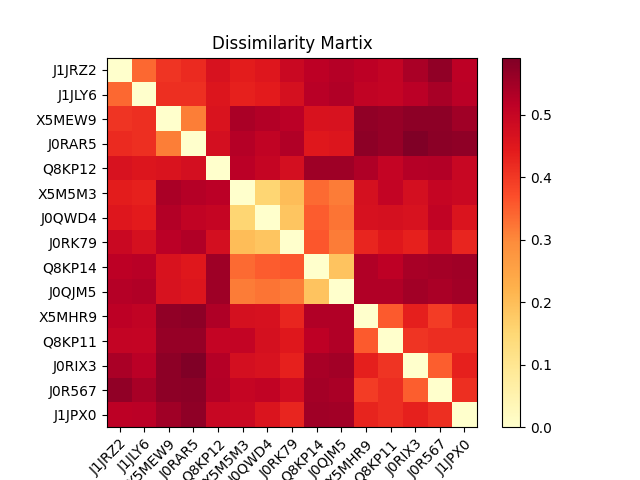
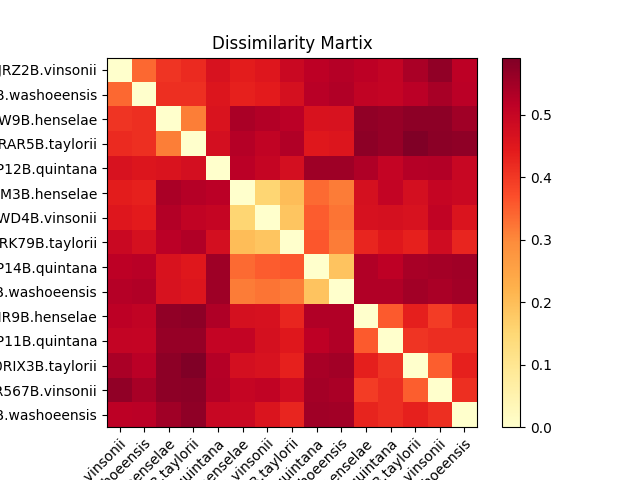
Added species names to sequence names used for a tree and heatmap display

diff --git a/Project_Code/project_step4.py b/Project_Code/project_step4.py
@@ -18,7 +18,7 @@ path_to_alignment_score_plot = '../Output_Files/Alignement_score_plot_by_positio
 path_to_unordered_heatmap = '../Output_Files/Heatmap_for_unordered_sequences.png'
 path_to_tree = '../Output_Files/Tree.png'
 path_to_ordered_heatmap = '../Output_Files/Heatmap_for_ordered_sequences.png'
-
+path_to_embl_summary = "../Output_Files/Bartonella_embl_summary_usingLISTOFLISTS.txt"
 # Use once to save the alignment result, otherwise you're gonna wait for eternity...
 #MSA.write_msa_as_fasta(path_to_prots,path_to_score_matrix, path_to_msa_result)
 
@@ -26,12 +26,20 @@ MSA_dict = EMBL.read_fasta(path_to_msa_result)
 Score_dict = MSA.read_score_matrix(path_to_score_matrix)
 
 overall_score, scores_by_pos = MSA.dissimilarity_score(MSA_dict,Score_dict)
-print(f'BLOSUM62 Alignment Score:{overall_score}')   # I DONT HAVE THE SAME SCORE as the one obtained by msa.py
+print(f'BLOSUM62 Alignment Score:{overall_score}')   
 
 
 MSA.plot_alignment_score(scores_by_pos, 'BLOSUM62 Alignment Score', path_to_alignment_score_plot)
 
 DistMat, seq_names = MSA.compute_dissimilarity_matrix(MSA_dict)
+
+# TODO: if I include species, they name is too long to be well represented on a tree/heatmap
+# modifies seq_names so that they contain species
+with open(path_to_embl_summary, 'r') as stream_r:
+        for line in stream_r:
+                for i in range(len(seq_names)):
+                        if seq_names[i] in line:
+                                seq_names[i] += 'B.' + line.split()[2]
 
 MSA.plot_dissimilarity_matrix_as_heatmap(DistMat, seq_names, path_to_unordered_heatmap)
 
